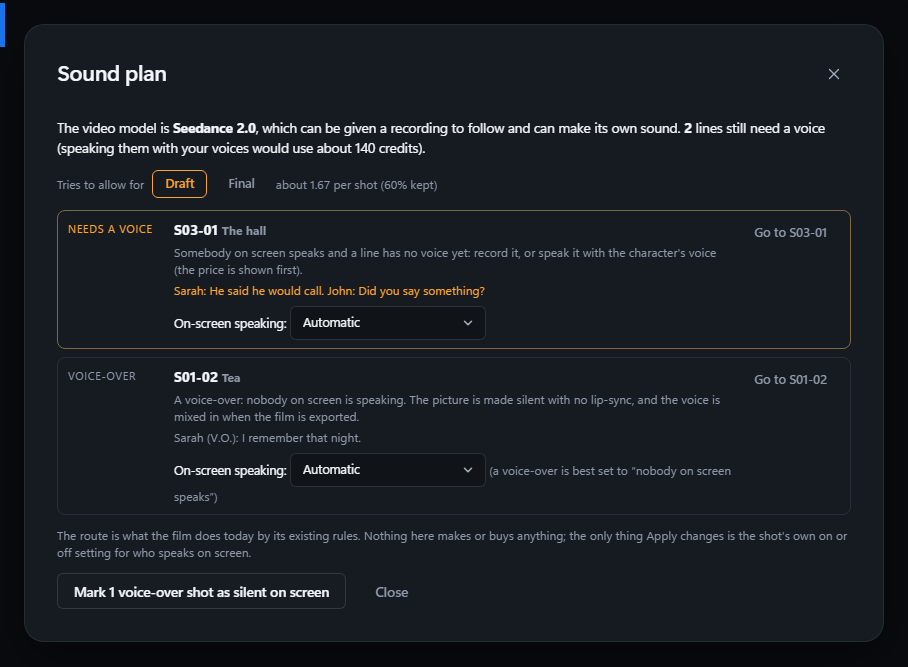
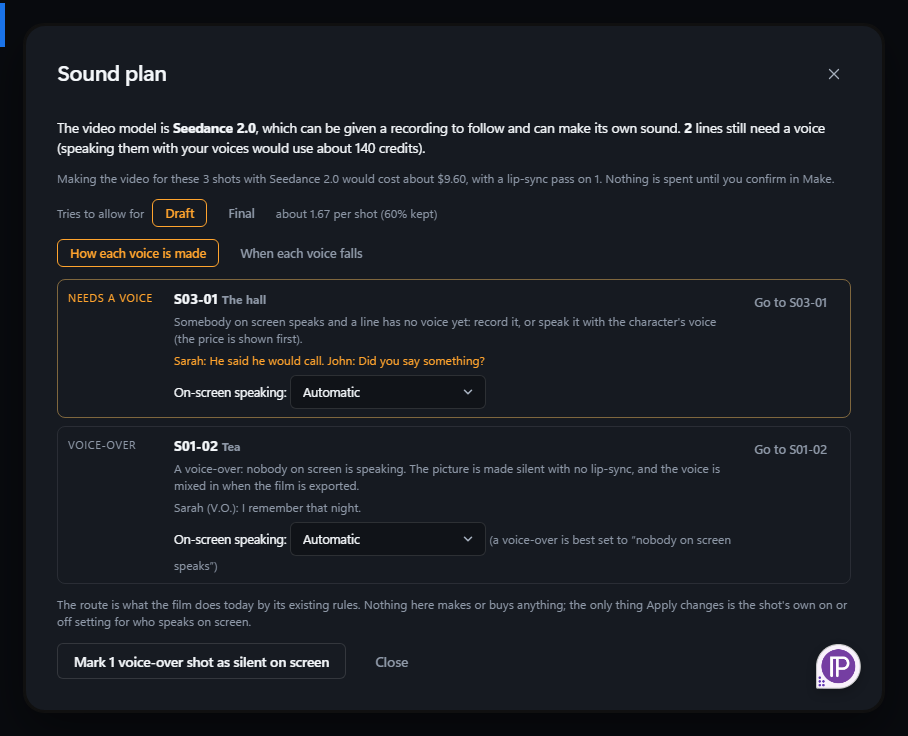
Dialogue timing view, video price in the Sound plan, hand-off read-back and stems, docs

diff --git a/src/docshots/main.tsx b/src/docshots/main.tsx
@@ -235,9 +235,9 @@ mockIPC((cmd, a) => {
         { step: "keyframes", level: "look", what: "8 shots have no keyframe.", why: "A keyframe fixes the look of a shot before the video is made, so a poor one is cheap to replace.", go: "make", shot: "S01-01", fix: null },
         { step: "video", level: "look", what: "8 shots have no video yet.", why: "Making video is paid. Open Make: the price of the batch is shown first, and nothing is made until you confirm.", go: "make", shot: "S01-01", fix: null },
         { step: "voices", level: "note", what: "1 voice-over shot is not set to silent on screen.", why: "Nobody on screen speaks a voice-over, so the picture can be made without lip-sync. The Sound plan sets it in one click.", go: "soundplan", shot: "S01-02", fix: null }] }; return { ...r, next: r.items[0] }; }
-    case "film_audioplan": return { tier: "draft", model: "Seedance 2.0", model_known: true, model_takes_recording: true, model_makes_sound: true, native_scene: false, counts: { voice_over: 2, needs_voice: 1, audio_in: 1, none: 4 }, lines_to_speak: 2, tts_credits: 140, tts_unpriced: 0, keep_rate: 0.6, tries: 1.67, note: "The route is what the film does today by its existing rules. Nothing here makes or buys anything; the only thing Apply changes is the shot's own on or off setting for who speaks on screen.",
-      shots: [{ shot: "S03-01", scene: 3, title: "The hall", seconds: 6, route: "needs_voice", why: "Somebody on screen speaks and a line has no voice yet: record it, or speak it with the character's voice (the price is shown first).", warnings: [], setting: "auto", recommended_setting: "auto", differs: false, speakers: ["Sarah", "John"], lines: [{ speaker: "Sarah", line: "He said he would call.", voice_over: false, has_voice: false, source: "" }, { speaker: "John", line: "Did you say something?", voice_over: false, has_voice: false, source: "" }] },
-        { shot: "S01-02", scene: 1, title: "Tea", seconds: 4, route: "voice_over", why: "A voice-over: nobody on screen is speaking. The picture is made silent with no lip-sync, and the voice is mixed in when the film is exported.", warnings: [], setting: "auto", recommended_setting: "off", differs: true, speakers: [], lines: [{ speaker: "Sarah", line: "I remember that night.", voice_over: true, has_voice: true, source: "recorded" }] }] };
+    case "film_audioplan": return { video_cost: { usd: 9.6, usd_known: 9.6, unknown: 0, shots: 3, lipsync_shots: 1, model: "Seedance 2.0" }, tier: "draft", model: "Seedance 2.0", model_known: true, model_takes_recording: true, model_makes_sound: true, native_scene: false, counts: { voice_over: 2, needs_voice: 1, audio_in: 1, none: 4 }, lines_to_speak: 2, tts_credits: 140, tts_unpriced: 0, keep_rate: 0.6, tries: 1.67, note: "The route is what the film does today by its existing rules. Nothing here makes or buys anything; the only thing Apply changes is the shot's own on or off setting for who speaks on screen.",
+      shots: [{ shot: "S03-01", scene: 3, title: "The hall", seconds: 6, route: "needs_voice", why: "Somebody on screen speaks and a line has no voice yet: record it, or speak it with the character's voice (the price is shown first).", warnings: [], setting: "auto", recommended_setting: "auto", differs: false, speakers: ["Sarah", "John"], timing: { lead: 0.5, tail: 0, end: 6.1, over: 0.6, segments: [{ speaker: "Sarah", start: -0.5, seconds: 2.4, estimated: false, file: null }, { speaker: "John", start: 2.15, seconds: 3.95, estimated: true, file: null }] }, lines: [{ speaker: "Sarah", line: "He said he would call.", voice_over: false, has_voice: false, source: "" }, { speaker: "John", line: "Did you say something?", voice_over: false, has_voice: false, source: "" }] },
+        { shot: "S01-02", scene: 1, title: "Tea", seconds: 4, route: "voice_over", why: "A voice-over: nobody on screen is speaking. The picture is made silent with no lip-sync, and the voice is mixed in when the film is exported.", warnings: [], setting: "auto", recommended_setting: "off", differs: true, speakers: [], timing: { lead: 0, tail: 1, end: 3.1, over: 0, segments: [{ speaker: "Sarah", start: 0, seconds: 3.1, estimated: false, file: null }] }, lines: [{ speaker: "Sarah", line: "I remember that night.", voice_over: true, has_voice: true, source: "recorded" }] }] };
     case "film_pacing": return { film: { shots: 8, seconds: 31.5, asl: 3.9, shortest: 1.2, longest: 7 }, scenes: [{ number: 1, shots: 5, seconds: 21, asl: 4.2, shortest: 2, longest: 7, bars: [{ id: "S01-01", seconds: 4 }, { id: "S01-02", seconds: 7 }, { id: "S01-03", seconds: 3 }, { id: "S01-04", seconds: 5 }, { id: "S01-05", seconds: 2 }] }, { number: 2, shots: 3, seconds: 10.5, asl: 3.5, shortest: 1.2, longest: 6, bars: [{ id: "S02-01", seconds: 3.3 }, { id: "S02-02", seconds: 1.2 }, { id: "S02-03", seconds: 6 }] }],
       findings: [{ level: "fix", shot: "S01-03", scene: 1, what: "S01-03 lasts 3.0 s but its dialogue needs about 5.8 s.", why: "People speak at about 2.5 words a second, with a breath either side; a shorter shot means the voice is cut off or hurried.", tip: "Lengthen the shot to 5.8 s, or cut the line." }, { level: "note", shot: "S02-01", scene: 2, what: "Scene 2 does not open on a wide shot.", why: "A wide first shot tells the audience where they are.", tip: "Make the first shot wide or establishing." }], counts: { fix: 1, look: 0, note: 1 }, note: "Advice only." };
     case "film_composition": return x.action === "set" ? { in_prompt: true } : { size: "close", shot: "S01-02", in_prompt: true, horizon: null, grid: [0.333, 0.667], text: "", points: [{ name: "Sarah", x: 0.333, y: 0.333 }],

diff --git a/src/DialogueTiming.tsx b/src/DialogueTiming.tsx
@@ -1,0 +1,55 @@
+import { useEffect, useRef, useState } from "react";
+import { api, type SoundPlan } from "./api";
+import { barStyle, scaleOf } from "./timingWords";
+
+type Row = SoundPlan["shots"][number];
+const SWATCH = ["#e8b45c", "#7fb6e8", "#c78fe0", "#7fe0b0", "#e08f8f", "#e0d27f", "#8fa7e0", "#e0a07f"];
+
+/**
+ * Dialogue timing: for every shot with a voice, a strip that shows the picture, where each person's voice falls in it (as the film's mix lays it out), the J cut before and the L cut after,
+ * and a warning when the voices run past the end. Play reads the shot's recordings aloud in order, so a scene can be heard as a table read. A voice with no recording yet is hatched: its
+ * length is an estimate from its words. It only reads; nothing is changed or made.
+ */
+export function DialogueTiming({ dir, shots, onGo }: { dir: string; shots: Row[]; onGo: (shot: string) => void }) {
+  const [playing, setPlaying] = useState<string | null>(null);
+  const audio = useRef<HTMLAudioElement | null>(null);
+  const run = useRef(0);
+  useEffect(() => () => { run.current++; audio.current?.pause(); }, []);
+  const stop = () => { run.current++; audio.current?.pause(); setPlaying(null); };
+  const play = async (row: Row) => {
+    stop();
+    const mine = ++run.current;
+    setPlaying(row.shot);
+    for (const seg of row.timing.segments) {
+      if (!seg.file || run.current !== mine) continue;
+      const a = new Audio(api.mediaUrl(`${dir}/${seg.file}`));
+      audio.current = a;
+      await new Promise<void>((done) => { a.onended = () => done(); a.onerror = () => done(); a.play().catch(() => done()); });
+    }
+    if (run.current === mine) setPlaying(null);
+  };
+  const withVoices = shots.filter((s) => s.timing.segments.length);
+  if (!withVoices.length) return <p className="why">No shot has a voice or a line to place yet.</p>;
+  const scale = scaleOf(withVoices.map((s) => ({ lead: s.timing.lead, seconds: s.seconds, tail: s.timing.tail, end: s.timing.end })));
+  return (
+    <ul className="dt-list" aria-label="When each voice falls in each shot">
+      {withVoices.map((s) => {
+        const names = [...new Set(s.timing.segments.map((x) => x.speaker))];
+        return (
+          <li key={s.shot} className={`dt-item ${s.timing.over > 0.05 ? "over" : ""}`}>
+            <div className="dt-head"><b>{s.shot}</b> <span className="dim">{s.title} · {s.seconds.toFixed(1)} s{s.timing.lead ? ` · starts ${s.timing.lead} s early` : ""}{s.timing.tail ? ` · runs ${s.timing.tail} s on` : ""}</span>
+              <span style={{ flex: 1 }} />
+              {s.timing.segments.some((x) => x.file) && <button className="link" onClick={() => (playing === s.shot ? stop() : void play(s))}>{playing === s.shot ? "Stop" : "Play the voices"}</button>}
+              <button className="link" onClick={() => onGo(s.shot)}>Go to {s.shot}</button></div>
+            <div className="dt-strip" role="img" aria-label={`${s.shot}: ${s.timing.segments.map((x) => `${x.speaker} from ${x.start.toFixed(1)} to ${(x.start + x.seconds).toFixed(1)} s${x.estimated ? " (estimated)" : ""}`).join("; ")}${s.timing.over > 0.05 ? `. The voices run ${s.timing.over} s past the end.` : ""}`}>
+              <span className="dt-pic" style={barStyle(scale, 0, s.seconds)} />
+              {s.timing.tail > 0 && <span className="dt-tail" style={barStyle(scale, s.seconds, s.timing.tail)} />}
+              {s.timing.segments.map((x, i) => (
+                <span key={i} className={`dt-seg ${x.estimated ? "est" : ""}`} style={{ ...barStyle(scale, x.start, x.seconds), ["--vc" as string]: SWATCH[names.indexOf(x.speaker) % SWATCH.length] }} title={`${x.speaker}: ${x.seconds.toFixed(1)} s${x.estimated ? ", estimated from the words" : ""}`}>{x.speaker}</span>))}
+            </div>
+            {s.timing.over > 0.05 && <p className="why dt-warn">The voices run {s.timing.over.toFixed(1)} s past the end of the shot{s.timing.tail ? " and its tail" : ""}: they are cut there.</p>}
+          </li>);
+      })}
+    </ul>
+  );
+}

diff --git a/src/SoundPlan.tsx b/src/SoundPlan.tsx
@@ -2,7 +2,8 @@ import { useCallback, useEffect, useState } from "react";
 import { api, errorText, type SoundPlan as Plan } from "./api";
 import * as I from "./icons";
 import { Sheet } from "./Sheet";
-import { creditsWords, routeOrder, routeWords, settingWords } from "./soundPlanWords";
+import { DialogueTiming } from "./DialogueTiming";
+import { creditsWords, routeOrder, routeWords, settingWords, videoCostWords } from "./soundPlanWords";
 
 /**
  * "Sound plan": for every shot with dialogue, how its voice will be made and why, in one list. It reads the film as it is and spends nothing. The only thing it can change is a shot's own
@@ -14,6 +15,7 @@ export function SoundPlan({ dir, onClose, onGo }: { dir: string; onClose: () => 
   const [busy, setBusy] = useState(false);
   const [tier, setTier] = useState<"draft" | "final">("draft");
   const [msg, setMsg] = useState("");
+  const [view, setView] = useState<"plan" | "timing">("plan");
   const load = useCallback(() => api.filmAudioPlan("report", dir, { tier }).then(setR).catch((e) => setErr(errorText(e))), [dir, tier]);
   useEffect(() => { load(); }, [load]);
   const run = async (action: "apply" | "set", data: Record<string, unknown> = {}) => {
@@ -36,14 +38,19 @@ export function SoundPlan({ dir, onClose, onGo }: { dir: string; onClose: () => 
           {r.model_known ? <>The video model is <b>{r.model}</b>, which {r.model_takes_recording ? "can be given a recording to follow" : "cannot be given a recording"}{r.model_makes_sound ? " and can make its own sound" : ""}.</> : <>The video model is not chosen yet, so the plan assumes recordings are laid over the picture at export.</>}
           {" "}{r.lines_to_speak ? <><b>{r.lines_to_speak}</b> line{r.lines_to_speak === 1 ? "" : "s"} still need a voice (speaking them with your voices would use {creditsWords(r.tts_credits, r.tts_unpriced)}).</> : "Every line has its voice."}
         </p>
+        {videoCostWords(r.video_cost) && <p className="why sp-cost">{videoCostWords(r.video_cost)}</p>}
         <div className="sp-tier" role="group" aria-label="How many tries to allow for">
           <span className="dim">Tries to allow for</span>
           <button className={`btn ghost sm ${tier === "draft" ? "on" : ""}`} aria-pressed={tier === "draft"} onClick={() => setTier("draft")}>Draft</button>
           <button className={`btn ghost sm ${tier === "final" ? "on" : ""}`} aria-pressed={tier === "final"} onClick={() => setTier("final")}>Final</button>
           <span className="dim">about {r.tries} per shot ({Math.round(r.keep_rate * 100)}% kept)</span>
         </div>
+        <div className="sp-tier" role="tablist" aria-label="What to show">
+          <button role="tab" aria-selected={view === "plan"} className={`btn ghost sm ${view === "plan" ? "on" : ""}`} onClick={() => setView("plan")}>How each voice is made</button>
+          <button role="tab" aria-selected={view === "timing"} className={`btn ghost sm ${view === "timing" ? "on" : ""}`} onClick={() => setView("timing")}>When each voice falls</button>
+        </div>
         {msg && <p className="why" role="status">{msg}</p>}
-        <ul className="sp-list">
+        {view === "timing" ? <DialogueTiming dir={dir} shots={r.shots} onGo={onGo} /> : <ul className="sp-list">
           {rows.map((s) => (
             <li key={s.shot} className={`sp-item ${s.route}`}>
               <span className="sp-route">{routeWords(s.route)}</span>
@@ -62,7 +69,7 @@ export function SoundPlan({ dir, onClose, onGo }: { dir: string; onClose: () => 
               </div>
               <button className="btn ghost sm" onClick={() => onGo(s.shot)}>Go to {s.shot}</button>
             </li>))}
-        </ul>
+        </ul>}
         <p className="why">{r.note}</p>
       </>}
       <div className="cv-actions">

diff --git a/src/api.ts b/src/api.ts
@@ -577,8 +577,8 @@ export type ReadinessItem = { step: string; level: "fix" | "look" | "note"; what
   fix: { kind: "shot_seconds"; shot: string; seconds: number; was: number; label: string } | null };
 export type Readiness = { items: ReadinessItem[]; next: ReadinessItem | null; counts: { fix: number; look: number; note: number }; ready: boolean; shots: number; unread: string[]; note: string };
 export type SoundRoute = "none" | "voice_over" | "needs_voice" | "audio_in" | "post_sync" | "native";
-export type SoundPlan = { tier: string; model: string; model_known: boolean; model_takes_recording: boolean; model_makes_sound: boolean; native_scene: boolean; counts: Record<string, number>; lines_to_speak: number; tts_credits: number; tts_unpriced: number; keep_rate: number; tries: number; note: string; changed?: string[];
-  shots: { shot: string; scene: number; title: string; seconds: number; route: SoundRoute; why: string; warnings: string[]; setting: "auto" | "on" | "off"; recommended_setting: string; differs: boolean; speakers: string[]; lines: { speaker: string; line: string; voice_over: boolean; has_voice: boolean; source: string }[] }[] };
+export type SoundPlan = { video_cost?: { usd: number | null; usd_known: number | null; unknown: number; shots: number; lipsync_shots: number; model: string } | null; tier: string; model: string; model_known: boolean; model_takes_recording: boolean; model_makes_sound: boolean; native_scene: boolean; counts: Record<string, number>; lines_to_speak: number; tts_credits: number; tts_unpriced: number; keep_rate: number; tries: number; note: string; changed?: string[];
+  shots: { shot: string; scene: number; title: string; seconds: number; route: SoundRoute; why: string; warnings: string[]; timing: { lead: number; tail: number; end: number; over: number; segments: { speaker: string; start: number; seconds: number; estimated: boolean; file: string | null }[] }; setting: "auto" | "on" | "off"; recommended_setting: string; differs: boolean; speakers: string[]; lines: { speaker: string; line: string; voice_over: boolean; has_voice: boolean; source: string }[] }[] };
 export type PacingReport = { film: { shots: number; seconds: number; asl: number; shortest: number; longest: number }; scenes: { number: number; shots: number; seconds: number; asl: number; shortest: number; longest: number; bars: { id: string; seconds: number }[] }[];
   findings: { level: "fix" | "look" | "note"; shot: string | null; scene: number | null; what: string; why: string; tip: string }[]; counts: { fix: number; look: number; note: number }; note: string };
 export type CompositionGuideData = { size: string; shot: string; in_prompt: boolean; lines: { text: string; why: string }[]; points: { name: string; x: number; y: number }[]; horizon: number | null; text: string; grid: number[] };

diff --git a/src/__tests__/timing.test.ts b/src/__tests__/timing.test.ts
@@ -1,0 +1,40 @@
+import { describe, expect, it } from "vitest";
+import { readFileSync } from "node:fs";
+import { barStyle, scaleOf } from "../timingWords";
+
+describe("the dialogue timing strip", () => {
+  it("uses one ruler for every shot, from the earliest J cut to the latest voice", () => {
+    const s = scaleOf([{ lead: 0.5, seconds: 4, tail: 0, end: 3 }, { lead: 0, seconds: 3, tail: 2, end: 6 }]);
+    expect(s).toEqual({ from: -0.5, to: 6 });
+  });
+  it("places a span in percent, never off an edge and never invisible", () => {
+    const s = { from: -1, to: 9 };
+    expect(barStyle(s, 0, 5)).toEqual({ left: "10.00%", width: "50.00%" });
+    expect(barStyle(s, 8.9, 5).left).toBe("99.00%");
+    expect(parseFloat(barStyle(s, 8.9, 5).width)).toBeCloseTo(1, 1);
+    expect(parseFloat(barStyle(s, 0, 0.001).width)).toBeGreaterThanOrEqual(0.8);
+    expect(barStyle(s, -5, 2).left).toBe("0.00%");
+  });
+  it("only reads and plays the recordings that are there, and is a view of the Sound plan", () => {
+    const t = readFileSync("src/DialogueTiming.tsx", "utf8");
+    expect(t).not.toMatch(/queueRender|\.generate\(|castVoice|audioGen|confirmed:\s*true|fetch\(|filmAudioPlan/);
+    expect(t).toMatch(/Play the voices/);
+    expect(readFileSync("src/SoundPlan.tsx", "utf8")).toMatch(/When each voice falls/);
+  });
+});
+
+import { videoCostWords } from "../soundPlanWords";
+describe("the video price line", () => {
+  it("says the price, what is not priced, and that nothing is spent yet", () => {
+    const t = videoCostWords({ usd: 9.6, usd_known: 9.6, unknown: 0, shots: 3, lipsync_shots: 1, model: "Seedance 2.0" });
+    expect(t).toMatch(/3 shots with Seedance 2\.0 would cost about \$9\.60/);
+    expect(t).toMatch(/lip-sync pass on 1/);
+    expect(t).toMatch(/Nothing is spent until you confirm in Make/);
+  });
+  it("is a minimum when some shots have no price, and silent when there is nothing to price", () => {
+    expect(videoCostWords({ usd: null, usd_known: 4, unknown: 2, shots: 5, lipsync_shots: 0, model: "M" })).toMatch(/about \$4\.00 \(2 not priced, so this is a minimum\)/);
+    expect(videoCostWords({ usd: null, usd_known: null, unknown: 1, shots: 1, lipsync_shots: 0, model: "M" })).toMatch(/no price known yet/);
+    expect(videoCostWords(null)).toBe("");
+    expect(videoCostWords({ usd: 1, usd_known: 1, unknown: 0, shots: 0, lipsync_shots: 0, model: "M" })).toBe("");
+  });
+});

diff --git a/src/film.css b/src/film.css
@@ -1235,3 +1235,15 @@
 .rd-main p { margin: 4px 0 0; }
 .rd-acts { display: flex; flex-direction: column; gap: 6px; align-items: stretch; }
 .rd-undo { margin: 0; }
+.dt-list { list-style: none; margin: 0; padding: 0; display: flex; flex-direction: column; gap: 10px; }
+.dt-item { padding: 8px 10px; border: 1px solid var(--hair); border-radius: 8px; }
+.dt-item.over { border-color: rgba(239, 107, 115, 0.6); }
+.dt-head { display: flex; align-items: baseline; gap: 10px; flex-wrap: wrap; font-size: 12.5px; }
+.dt-strip { position: relative; height: 34px; margin-top: 6px; border-radius: 6px; background: rgba(255, 255, 255, 0.03); overflow: hidden; }
+.dt-pic { position: absolute; top: 0; bottom: 0; background: rgba(255, 255, 255, 0.09); border-radius: 4px; }
+.dt-tail { position: absolute; top: 0; bottom: 0; background: repeating-linear-gradient(135deg, rgba(255, 255, 255, 0.07) 0 4px, transparent 4px 8px); }
+.dt-seg { position: absolute; top: 6px; bottom: 6px; display: flex; align-items: center; padding: 0 6px; border-radius: 4px; background: var(--vc, #e8b45c); color: #11151b; font-size: 11px; font-weight: 600; overflow: hidden; white-space: nowrap; }
+.dt-seg.est { background: repeating-linear-gradient(135deg, var(--vc, #e8b45c) 0 5px, transparent 5px 9px); color: var(--frost, #f4f7fa); border: 1px dashed var(--vc, #e8b45c); }
+.dt-warn { color: #ef6b73; margin: 6px 0 0; }
+
+.sp-cost { margin: 0; }

diff --git a/src/soundPlanWords.ts b/src/soundPlanWords.ts
@@ -10,6 +10,14 @@ export const routeOrder = (r: SoundRoute): number => ({ needs_voice: 0, native: 
 
 export const settingWords = (s: string): string => (s === "off" ? "Nobody on screen speaks" : s === "on" ? "Someone on screen speaks" : "Automatic");
 
+/** The video price line: what making the shots that have people speaking would cost, and what is not priced. Never a made-up figure. */
+export const videoCostWords = (c: { usd: number | null; usd_known: number | null; unknown: number; shots: number; lipsync_shots: number; model: string } | null | undefined): string => {
+  if (!c || !c.shots) return "";
+  const known = c.usd ?? c.usd_known ?? 0;
+  const money = known ? `about $${known.toFixed(2)}` : "no price known yet";
+  return `Making the video for these ${c.shots} shot${c.shots === 1 ? "" : "s"} with ${c.model} would cost ${money}${c.unknown ? ` (${c.unknown} not priced, so this is a minimum)` : ""}${c.lipsync_shots ? `, with a lip-sync pass on ${c.lipsync_shots}` : ""}. Nothing is spent until you confirm in Make.`;
+};
+
 /** "about 1,200 credits", or the honest "not priced" when a voice has no price yet. */
 export const creditsWords = (credits: number, unpriced: number): string =>
   `${credits ? `about ${credits.toLocaleString("en-US")} credits` : "no credits"}${unpriced ? `, ${unpriced} line${unpriced === 1 ? "" : "s"} not priced` : ""}`;

diff --git a/src/timingWords.ts b/src/timingWords.ts
@@ -1,0 +1,16 @@
+/** The strip's scale: seconds from the earliest voice (a J cut starts before the picture) to the latest end (a voice that runs on), so every shot's strip uses the same ruler. */
+export type Scale = { from: number; to: number };
+
+export const scaleOf = (rows: { lead: number; seconds: number; tail: number; end: number }[]): Scale => {
+  const from = -Math.max(0, ...rows.map((r) => r.lead));
+  const to = Math.max(1, ...rows.map((r) => Math.max(r.seconds + r.tail, r.end)));
+  return { from, to };
+};
+
+/** Where a span sits on the strip, in percent, never off either edge and never so thin it cannot be seen. */
+export const barStyle = (s: Scale, start: number, seconds: number): { left: string; width: string } => {
+  const span = Math.max(0.001, s.to - s.from);
+  const left = Math.min(100, Math.max(0, ((start - s.from) / span) * 100));
+  const width = Math.min(100 - left, Math.max(0.8, (seconds / span) * 100));
+  return { left: `${left.toFixed(2)}%`, width: `${width.toFixed(2)}%` };
+};

diff --git a/analysis/filmcrafter_engine/audioplan.py b/analysis/filmcrafter_engine/audioplan.py
@@ -68,9 +68,50 @@ def _caps(rd: str, tier: str) -> dict:
         return out
 
 
+def _video_cost(rd: str, ids: list[str]) -> dict | None:
+    """What making the video for the shots that have people speaking would cost with the model Auto would use, from the app's own price tables and what this model cost before: the price
+    includes a lip-sync pass where one would run. None when it cannot be worked out; a shot without a price is counted as not priced, never guessed."""
+    if not ids:
+        return None
+    try:
+        from . import render, routing
+        project = safeio.read_json(os.path.join(rd, "project.json"), {}) or {}
+        pk = routing.pick(project, "video")
+        if not pk.get("provider"):
+            return None
+        e = render.estimate(rd, ids, pk["provider"], pk["model"], "video")
+        return {"usd": e.get("usd"), "usd_known": e.get("usd_known"), "unknown": e.get("unknown", 0), "shots": e.get("shots", len(ids)), "lipsync_shots": e.get("lipsync_shots", 0), "model": pk.get("label") or pk["model"]}
+    except Exception:
+        return None
+
+
 def _setting(rd: str, sid: str) -> str:
     v = ((safeio.read_json(os.path.join(rd, "project.json"), {}) or {}).get("sing_shots") or {}).get(sid)
     return v if v in ("on", "off") else "auto"
+
+
+GAP = 0.25                                       # seconds between two people's recordings in one shot: the film's own mix uses the same
+
+
+def _timing(v: dict | None, secs: float, c: dict) -> dict:
+    """Where each person's voice falls in the shot, as the film's mix lays it out: in speaking order, a short gap between people, starting `lead` seconds before the picture (a J cut)
+    and allowed `tail` seconds after it (an L cut). A person with no recording yet is shown with an estimate of the time their words need, marked as one."""
+    cut = c.get("sound_cut") or {}
+    lead, tail = max(0.0, float(cut.get("lead") or 0.0)), max(0.0, float(cut.get("tail") or 0.0))
+    at, segs = -lead, []
+    for p in (v or {}).get("people", []):
+        rec = p.get("recording")
+        words = sum(len(str(x).split()) for x in p.get("lines", []))
+        if rec:
+            length, est = float(rec.get("seconds") or 0.0), False
+        elif words:
+            length, est = words / 2.5 + 0.4, True
+        else:
+            continue
+        segs.append({"speaker": p["name"], "start": round(at, 2), "seconds": round(length, 2), "estimated": est, "file": (rec or {}).get("file")})
+        at += length + GAP
+    end = (segs[-1]["start"] + segs[-1]["seconds"]) if segs else 0.0
+    return {"lead": lead, "tail": tail, "segments": segs, "end": round(end, 2), "over": round(max(0.0, end - (secs + tail)), 2)}
 
 
 def report(d: str, tier: str = "draft") -> dict:
@@ -121,10 +162,13 @@ def report(d: str, tier: str = "draft") -> dict:
             warnings.append(f"The shot lasts {secs:.1f} s but its lines need about {need:.1f} s.")
         for x in missing:
             speak_items.append({"shot": sid, "speaker": x["speaker"], "text": x["line"]})
+        timing = _timing(v, secs, c)
+        if timing["over"] > 0.05:
+            warnings.append(f"The voices run {timing['over']:.1f} s past the end of the shot (and its tail): they are cut there. Lengthen the shot, or shorten the line.")
         current = _setting(rd, sid)
         rec_setting = "off" if route == "voice_over" else "auto"
         rows.append({"shot": sid, "scene": c["scene"], "title": c.get("title", ""), "seconds": secs, "lines": lines, "speakers": speakers, "route": route, "why": why, "warnings": warnings,
-                     "setting": current, "recommended_setting": rec_setting, "differs": route == "voice_over" and current != "off"})
+                     "timing": timing, "setting": current, "recommended_setting": rec_setting, "differs": route == "voice_over" and current != "off"})
     credits = 0
     unpriced = 0
     try:
@@ -138,7 +182,8 @@ def report(d: str, tier: str = "draft") -> dict:
         counts[r["route"]] = counts.get(r["route"], 0) + 1
     keep = float((safeio.read_json(os.path.join(rd, "project.json"), {}) or {}).get("audio_plan", {}).get("keep_" + tier, KEEP[tier])) if os.path.isfile(os.path.join(rd, "project.json")) else KEEP[tier]
     keep = min(1.0, max(0.2, keep))
-    return {"tier": tier, "model": caps["model"], "model_known": caps["known"], "model_takes_recording": caps["ref_audio"], "model_makes_sound": caps["audio"], "native_scene": native,
+    spoken = [r["shot"] for r in rows if r["route"] in ("needs_voice", "audio_in", "post_sync", "native")]
+    return {"video_cost": _video_cost(rd, spoken), "tier": tier, "model": caps["model"], "model_known": caps["known"], "model_takes_recording": caps["ref_audio"], "model_makes_sound": caps["audio"], "native_scene": native,
             "shots": rows, "counts": counts, "lines_to_speak": len(speak_items), "tts_credits": credits, "tts_unpriced": unpriced,
             "keep_rate": keep, "tries": round(1 / keep, 2),
             "note": "The route is what the film does today by its existing rules. Nothing here makes or buys anything; the only thing Apply changes is the shot's own on or off setting for who speaks on screen."}

diff --git a/analysis/tests/test_audioplan.py b/analysis/tests/test_audioplan.py
@@ -178,3 +178,43 @@ def test_the_command_line_speaks_json(film, capsys):
     out = json.loads(capsys.readouterr().out.strip().splitlines()[-1])
     assert out["event"] == "result" and out["data"]["shots"]
     assert A.main(["set", film, "--data", json.dumps({"shot": "../../x", "value": "off"})]) == 1
+
+
+def test_timing_lays_the_voices_out_like_the_mix_and_says_when_they_run_over(film, tmp_path):
+    sid = shot_with(film, "He said he would call")
+    S.set_fields(film, sid, {"dialogue": [{"speaker": "SARAH", "line": "He said he would call."}, {"speaker": "JOHN", "line": "Did you say something?"}], "generation": {"duration": 6.0}, "sound_cut": {"lead": 0.5, "tail": 0.0}})
+    record(film, tmp_path, sid, "Sarah")                                       # 2.0 s; John has no recording yet
+    t = row(A.report(film), sid)["timing"]
+    sarah, john = t["segments"]
+    assert sarah["start"] == -0.5 and sarah["seconds"] == 2.0 and not sarah["estimated"]
+    assert john["start"] == pytest.approx(-0.5 + 2.0 + A.GAP) and john["estimated"], "no recording yet: an estimate, marked as one"
+    S.set_fields(film, sid, {"generation": {"duration": 2.0}})
+    r = row(A.report(film), sid)
+    assert r["timing"]["over"] > 0 and any("past the end of the shot" in w for w in r["warnings"])
+    S.set_fields(film, sid, {"sound_cut": {"lead": 0.0, "tail": 2.0}, "generation": {"duration": 3.0}})
+    assert row(A.report(film), sid)["timing"]["over"] < r["timing"]["over"], "an L cut gives the voices room"
+    quiet = next(x for x in A.report(film)["shots"] if not x["lines"])
+    assert quiet["timing"]["segments"] == [] and quiet["timing"]["over"] == 0
+
+
+def test_the_gap_matches_the_mix():
+    assert A.GAP == V.GAP
+
+
+def test_the_video_price_for_the_spoken_shots_is_shown_or_honestly_absent(film, monkeypatch):
+    seen = {}
+
+    def fake(rd, ids, provider, model, kind="video"):
+        seen["ids"] = ids
+        return {"usd": 3.2, "usd_known": 3.2, "unknown": 0, "shots": len(ids), "lipsync_shots": 1}
+    import filmcrafter_engine.render as Rn
+    import filmcrafter_engine.routing as Ro
+    monkeypatch.setattr(Rn, "estimate", fake)
+    monkeypatch.setattr(Ro, "pick", lambda project, kind: {"provider": "kie", "model": "m", "label": "Model M"})
+    r = A.report(film)
+    spoken = [x["shot"] for x in r["shots"] if x["route"] in ("needs_voice", "audio_in", "post_sync", "native")]
+    assert r["video_cost"] == {"usd": 3.2, "usd_known": 3.2, "unknown": 0, "shots": len(spoken), "lipsync_shots": 1, "model": "Model M"} and seen["ids"] == spoken
+    monkeypatch.setattr(Ro, "pick", lambda project, kind: {})
+    assert A.report(film)["video_cost"] is None, "no model chosen: nothing guessed"
+    monkeypatch.setattr(Ro, "pick", lambda project, kind: (_ for _ in ()).throw(RuntimeError("x")))
+    assert A.report(film)["video_cost"] is None, "a price that cannot be worked out is left out, the plan still shows"

diff --git a/docs/GETTING_STARTED.md b/docs/GETTING_STARTED.md
@@ -137,7 +137,7 @@ In the **Timeline**, the inspector keeps the everyday tabs (Shot, Keyframe, Vide
 
 ![With Advanced open: Compose (prompt, references, start and end frames) and Media appear, and the button now says Fewer](img/film/studio-advanced.png)
 
-**Export** is the last step: choose a soundtrack (music, a dialogue mix, an ADR track you made elsewhere; it is copied in untouched) or keep silence, then export the film (a format for each frame shape: 16:9, 21:9, 2.39:1, 4:3, 1:1, 4:5, 3:4, 9:16, 9:21; it starts on your film's own shape) or write a hand-off folder for an editor. The hand-off puts **each person's voice on a track of its own** and the approved sound effects, ambience and music on theirs, at their real places (the same J and L cuts and gaps as the film), in the OpenTimelineIO and Final Cut XML files; the sounds are copied beside them. **Send to your editor** (Premiere Pro or DaVinci Resolve) adds a third timeline, *shots with sound by track*, with one audio track per voice and per kind of sound. Open the folder's `.fcpxml` in DaVinci Resolve (File, Import, Timeline) or the editor file in Premiere; the picture cut is also in the EDL.
+**Export** is the last step: choose a soundtrack (music, a dialogue mix, an ADR track you made elsewhere; it is copied in untouched) or keep silence, then export the film (a format for each frame shape: 16:9, 21:9, 2.39:1, 4:3, 1:1, 4:5, 3:4, 9:16, 9:21; it starts on your film's own shape) or write a hand-off folder for an editor. The hand-off puts **each person's voice on a track of its own** and the approved sound effects, ambience and music on theirs, at their real places (the same J and L cuts and gaps as the film), in the OpenTimelineIO and Final Cut XML files; the sounds are copied beside them, and each track is also written as one finished stereo file in `audio/stems` (as long as the film, so it lines up from zero; this is the way into After Effects). When the folder is written it is **read back as an editor would**: anything missing, overlapping or out of step is said in a sentence under the result. **Send to your editor** (Premiere Pro or DaVinci Resolve) adds a third timeline, *shots with sound by track*, with one audio track per voice and per kind of sound. Open the folder's `.fcpxml` in DaVinci Resolve (File, Import, Timeline) or the editor file in Premiere; the picture cut is also in the EDL.
 
 ![Export: a readiness line, then three numbered panels: soundtrack, export the film, hand off to an editor](img/film/export.png)
 
@@ -494,7 +494,11 @@ Under the film's header, one slim line says the **next thing to do**, with a but
 
 ## Sound plan and hiding pictures
 
-**Sound plan (Shots, Sound plan...).** For every shot it says how the voice will be made and why, strictest first: **Needs a voice** (someone on screen speaks and a line has no recording yet), **Model speaks**, **Model follows the recording**, **Laid over at export**, **Voice-over** and **No voice**. A line marked `(V.O.)` or `(O.S.)` in your script, or spoken by a narrator, is a voice-over: nobody on screen speaks it, so the picture is made silent and the voice is mixed in when you export. Below the plan you see how many lines still need a voice, what speaking them with your ElevenLabs voices would use, and how many tries to allow for (Draft or Final). Each shot has an **On-screen speaking** choice (Automatic, Someone on screen speaks, Nobody on screen speaks); **Mark voice-over shots as silent on screen** sets it for voice-over shots you have not set yourself. Nothing here makes or buys anything; recording and speaking lines is still done on the Voice tab and in Voiceover, where prices are shown first.
+**Sound plan (Shots, Sound plan...).** For every shot it says how the voice will be made and why, strictest first: **Needs a voice** (someone on screen speaks and a line has no recording yet), **Model speaks**, **Model follows the recording**, **Laid over at export**, **Voice-over** and **No voice**. A line marked `(V.O.)` or `(O.S.)` in your script, or spoken by a narrator, is a voice-over: nobody on screen speaks it, so the picture is made silent and the voice is mixed in when you export. Below the plan you see how many lines still need a voice, what speaking them with your ElevenLabs voices would use, and how many tries to allow for (Draft or Final). Each shot has an **On-screen speaking** choice (Automatic, Someone on screen speaks, Nobody on screen speaks); **Mark voice-over shots as silent on screen** sets it for voice-over shots you have not set yourself. The plan also says what **making the video for the shots with people speaking** would cost with the model Auto would use, lip-sync pass included, from the app's own price tables (a shot with no price is named, and the figure is then a minimum). Nothing here makes or buys anything; recording and speaking lines is still done on the Voice tab and in Voiceover, where prices are shown first.
+
+**When each voice falls.** The Sound plan's second tab shows, for each shot with a voice, the picture as a grey band, a J cut before it and an L cut after it (hatched), and each person's voice as a coloured block exactly where the film's mix lays it. A hatched block has no recording yet, so its length is an estimate from the words. A shot whose voices run past its end is outlined in red with how many seconds are cut. **Play the voices** reads the shot's recordings in order.
+
+![When each voice falls: Sarah's recording, John's estimated voice, the voices running past the end of the shot](img/film/dialogue-timing.png)
 
 ![The Sound plan: a shot that needs a voice first, then a voice-over with its recommendation and the Mark button](img/film/sound-plan.png)
 

diff --git a/CHANGELOG.md b/CHANGELOG.md
@@ -2,6 +2,10 @@
 
 ## Unreleased
 
+- **The hand-off is read back before you are told it is done.** After the folder is written it is opened the way an editor would: every file a timeline points at must be there, no track may play two sounds at once or run past the film, the Final Cut XML must be well-formed with every clip defined, and the EDL must have one event for each shot with a take. Anything wrong is said in a sentence under the result; a clean folder says so. (It also found a real problem on a real film: very long titles made folder paths too long for Windows, so names are now kept short.)
+- **Each track as one finished file.** The hand-off folder now has `audio/stems`: one stereo WAV per track (each voice, effects, ambience, music), as long as the film, so they line up from zero in any editor. This is also the way into After Effects.
+- **When each voice falls (Sound plan, second tab).** For every shot with a voice: a strip that shows the picture, the J cut before it, the L cut after it, and each person's voice where the film's mix lays it. A voice with no recording yet is hatched, with its length estimated from its words. A shot whose voices run past its end is marked and says by how much. **Play the voices** reads a shot's recordings in order, a table read.
+- **The video price beside the voices.** The Sound plan now says what making the video for the shots with people speaking would cost with the model Auto would use (including the lip-sync pass where one runs), from the app's own price tables and what that model has cost before. A shot with no price is counted as not priced and the figure is called a minimum. Nothing is spent from there.
 - **Engine dependency advisories fixed.** Pillow 13.0.0 and pypdf 6.21.2 replace versions with newly published advisories (the whole engine test suite passes on them).
 - **Sound on tracks for your editor.** The hand-off folder's OpenTimelineIO and Final Cut XML now carry each person's voice on a track of its own (Voice Sarah, Voice John...), and the approved sound effects, ambience and music on theirs, every clip at its real frame: the same place, J and L cuts, gaps and levels the exported film is mixed with. A looping sound is laid end to end to fill its time. The sounds are copied into `audio/voice` and `audio/cues`. For Premiere Pro and DaVinci Resolve, **Send to your editor** adds a third timeline, *shots with sound by track*, with the same shots over one audio track per voice and per kind of sound; the first two timelines are unchanged. Not in the EDL (it cannot carry this much).
 - **The next step, always in view.** A slim line under the film's header says the one next thing to do (a fix first, then cast pictures, voices, keyframes, video, approval, export), with a button that goes there. **All N things** opens **Is this film ready?**: everything open, in the order a film is made, each with the reason and a button. A shot that is too short for its line can be **lengthened to fit in one click**, and put back. It only reads: a paid step sends you to Make, where the price is shown first.
